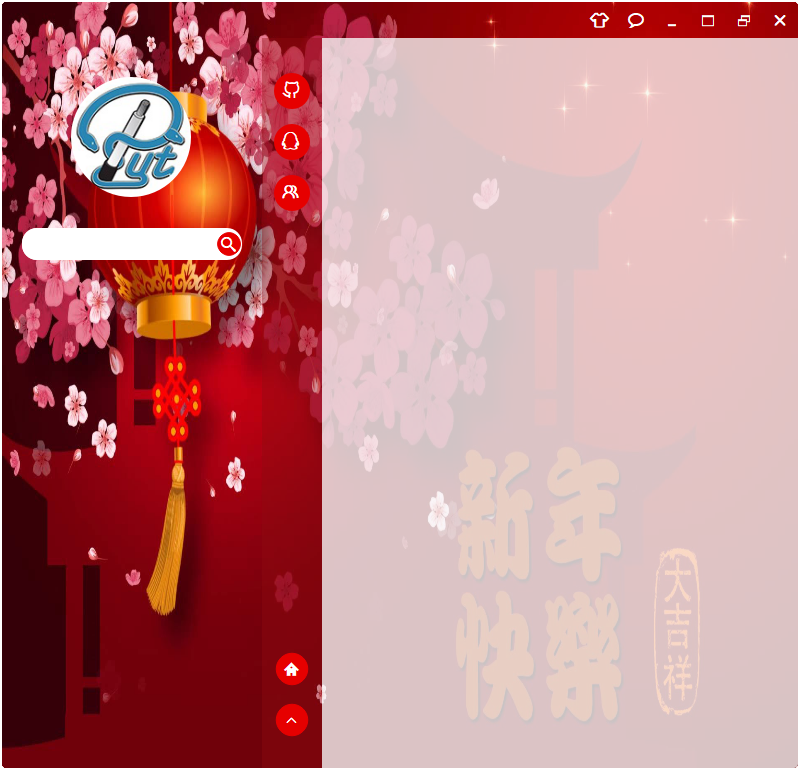
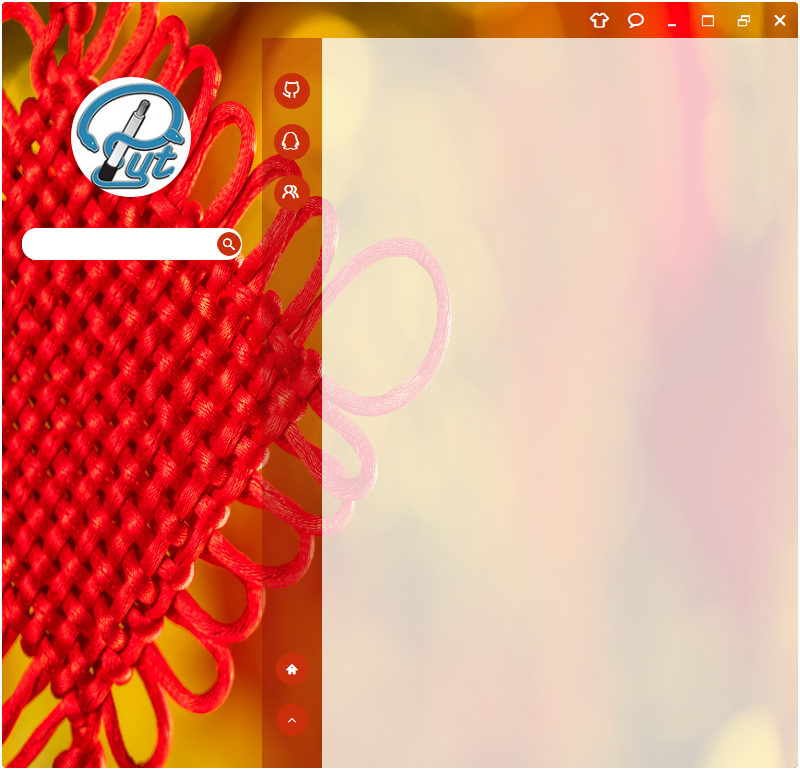
春节主题

diff --git a/Test/TestColorThief.py b/Test/TestColorThief.py
@@ -1,0 +1,22 @@
+#!/usr/bin/env python
+# -*- coding: utf-8 -*-
+from Utils.ColorThief import ColorThief
+
+
+# Created on 2019年1月29日
+# author: Irony
+# site: https://github.com/892768447
+# email: 892768447@qq.com
+# file: Test.TestColorThief
+# description: 
+__Author__ = """By: Irony
+QQ: 892768447
+Email: 892768447@qq.com"""
+__Copyright__ = 'Copyright (c) 2019 Irony'
+__Version__ = 1.0
+
+# 获取图片主色调
+color_thief = ColorThief(r'C:\Users\89276\Desktop\春节.jpg')
+color = color_thief.get_color()
+
+print(color)
